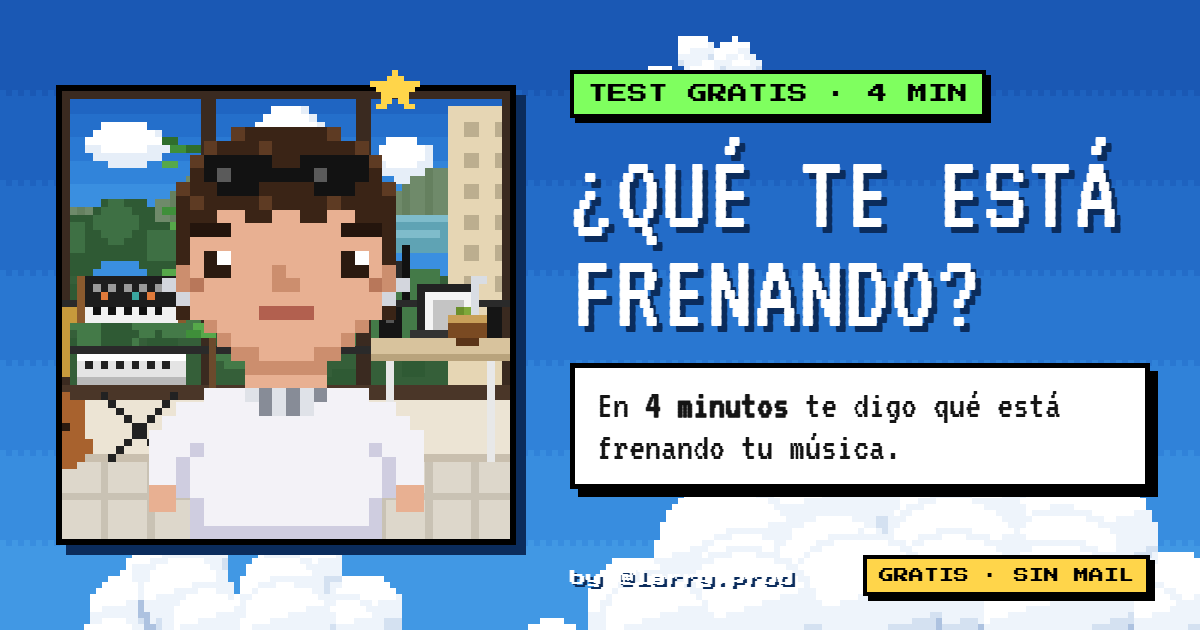
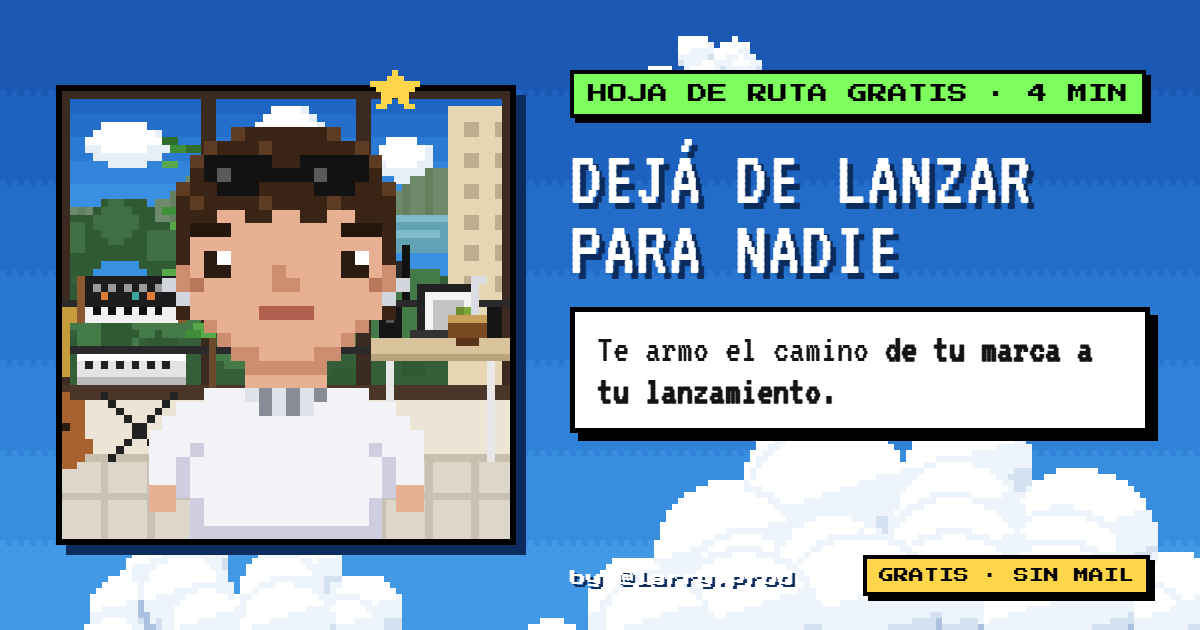
Ruta al Lanzamiento: promesa nueva y hoja de ruta como resultado

Changed region(s): [[0.4625, 0.0905, 0.9867, 0.8143]]

diff --git a/index.html b/index.html
@@ -3,20 +3,20 @@
 <head>
 <meta charset="UTF-8">
 <meta name="viewport" content="width=device-width, initial-scale=1, viewport-fit=cover">
-<title>¿Qué te está frenando? · Diagnóstico del artista · @larry.prod</title>
-<meta name="description" content="En 4 minutos te digo qué está frenando tu música. Gratis, sin mail ni teléfono. Con Larry (@larry.prod).">
+<title>Dejá de lanzar canciones que nadie escucha · Ruta al Lanzamiento · @larry.prod</title>
+<meta name="description" content="En 4 minutos te armo tu hoja de ruta: qué te está frenando y cuál es tu próximo paso, de tu marca a tu lanzamiento. Gratis, con Larry (@larry.prod).">
 <meta property="og:type" content="website">
-<meta property="og:url" content="https://larryprog.github.io/Diagnostico-del-Artista/">
-<meta property="og:title" content="¿Qué te está frenando? · Diagnóstico gratis del artista">
-<meta property="og:description" content="En 4 minutos te digo qué está frenando tu música. Gratis, sin mail ni teléfono. Con Larry (@larry.prod).">
-<meta property="og:image" content="https://larryprog.github.io/Diagnostico-del-Artista/og.png">
+<meta property="og:url" content="https://larryprog.github.io/Ruta-al-Lanzamiento/">
+<meta property="og:title" content="Dejá de lanzar canciones que nadie escucha · Ruta al Lanzamiento">
+<meta property="og:description" content="En 4 minutos te armo tu hoja de ruta: qué te está frenando y cuál es tu próximo paso, de tu marca a tu lanzamiento. Gratis, con Larry (@larry.prod).">
+<meta property="og:image" content="https://larryprog.github.io/Ruta-al-Lanzamiento/og.png">
 <meta property="og:image:width" content="1200">
 <meta property="og:image:height" content="630">
 <meta property="og:locale" content="es_ES">
 <meta name="twitter:card" content="summary_large_image">
-<meta name="twitter:title" content="¿Qué te está frenando? · Diagnóstico gratis del artista">
-<meta name="twitter:description" content="En 4 minutos te digo qué está frenando tu música. Gratis, sin mail ni teléfono. Con Larry (@larry.prod).">
-<meta name="twitter:image" content="https://larryprog.github.io/Diagnostico-del-Artista/og.png">
+<meta name="twitter:title" content="Dejá de lanzar canciones que nadie escucha · Ruta al Lanzamiento">
+<meta name="twitter:description" content="En 4 minutos te armo tu hoja de ruta: qué te está frenando y cuál es tu próximo paso, de tu marca a tu lanzamiento. Gratis, con Larry (@larry.prod).">
+<meta name="twitter:image" content="https://larryprog.github.io/Ruta-al-Lanzamiento/og.png">
 <meta name="theme-color" content="#1a58b4">
 <link rel="preconnect" href="https://fonts.googleapis.com">
 <link href="https://fonts.googleapis.com/css2?family=Syne:wght@600;700;800&family=Barlow:wght@400;500;600;700&family=Barlow+Condensed:wght@600;700;800&family=Caveat:wght@600&family=Special+Elite&family=DM+Mono:wght@400;500&family=Press+Start+2P&family=VT323&family=Playfair+Display:wght@700&family=Permanent+Marker&family=Baloo+2:wght@700&display=swap" rel="stylesheet">
@@ -455,6 +455,20 @@
     #printArea .qa div:last-child{font-size:14px;white-space:pre-wrap}
   }
 
+  .intro h1{font-size:clamp(17px,2.6vw,26px);max-width:640px;margin:0 auto}
+  /* ── la ruta ── */
+  .ruta{position:relative;display:grid;gap:10px;padding-left:4px}
+  .ruta::before{content:'';position:absolute;left:25px;top:20px;bottom:20px;border-left:4px dashed #151515}
+  .tramo{position:relative;display:flex;align-items:center;gap:12px}
+  .tramo .dot{flex:none;width:46px;height:46px;border:3px solid #000;box-shadow:3px 3px 0 #000;display:flex;align-items:center;justify-content:center;font-size:20px;z-index:1}
+  .tramo .tt{flex:1;min-width:0;background:#fff;border:2px solid var(--line2);padding:8px 12px;display:flex;flex-wrap:wrap;align-items:center;gap:4px 10px}
+  .tramo .tt b{font-size:15.5px;flex:1;min-width:140px}
+  .tramo .tag{font-family:'Press Start 2P',monospace;font-size:8px}
+  .tramo.here .tt{border:3px solid #151515;background:#fffbe9}
+  .tramo .aqui{flex-basis:100%;font-family:'Press Start 2P',monospace;font-size:9px;color:#c0263f}
+  .tramo.meta .dot{background:#151515}
+  .tramo.meta .tt{background:#151515;color:#fff;border-color:#151515}
+  .tramo.meta .tag{color:#7fff5f}
   /* ── diagnóstico ── */
   .ficha h3{font-family:'Press Start 2P',monospace;font-weight:400;font-size:16px;margin:10px 0 12px;line-height:1.4}
   .ficha .ps{color:var(--muted)}
@@ -502,7 +516,7 @@
     <header class="chead">
       <button id="menuBtn" aria-label="Ver recorrido">☰</button>
       <div class="mav larry live" data-frame="base" id="mav"></div>
-      <div class="ttl"><b>DIAGNOSTICO DEL ARTISTA</b><small id="sub">en línea</small></div>
+      <div class="ttl"><b>RUTA AL LANZAMIENTO</b><small id="sub">en línea</small></div>
       <a class="hdl hd" href="https://www.instagram.com/larry.prod" target="_blank" rel="noopener">@LARRY.PROD</a>
     </header>
     <div class="pbar"><i id="pbar"></i></div>
@@ -707,7 +721,8 @@ function studioLayers(){
   return { back: svg, front: '' };
 }
 
-/* DIAGNÓSTICO DEL ARTISTA — lead magnet gratis (versión corta del Manual de Marca)
+/* TU RUTA AL LANZAMIENTO — lead magnet gratis (versión corta del Manual de Marca)
+   Promesa: encaminar tu carrera desde tu marca hasta tu lanzamiento, en 4 minutos.
    Regla del guardián: acá solo van las preguntas, el semáforo y las frases de "fuga".
    Nada del método pago (frameworks, plantillas, ejemplos armados).
    **así** = negrita (lo más importante) · __así__ = subrayado fino (lo secundario) · ! al principio = frase clave */
@@ -736,7 +751,7 @@ const STEPS = [
 },
 {
   id:'p3', t:'Tu lanzamiento', min:1,
-  guide:{anim:'jump', prop:'mic', lines:['Última parada: **tu lanzamiento.**','Tres preguntas y __te muestro el resultado.__']},
+  guide:{anim:'jump', prop:'mic', lines:['Última parada: **tu lanzamiento.**','Unas preguntas más y __te muestro tu ruta completa.__']},
   fields:[
     {id:'ultimo', kind:'choice', label:'Tu último lanzamiento, ¿cuándo empezaste a moverlo?', options:['Semanas antes','El día que salió','Después','Nunca lancé nada']},
     {id:'fecha', kind:'choice', label:'¿Cuándo querés sacar lo próximo?', options:['Este mes','En 1 a 3 meses','Sin fecha todavía']},
@@ -747,18 +762,18 @@ const STEPS = [
 ];
 
 const GUIDE_COVER = { anim:'rise', prop:'note', lines:[
-  'Ey, soy **Larry** 👋 Productor musical.',
-  '!En 4 minutos te digo qué te está frenando… y spoiler: no siempre es la música.',
-  'Son **3 paradas cortas:** __tu música, cómo te ven y tu lanzamiento.__ Casi todo se contesta con un toque.',
-  'Al final te muestro **tu diagnóstico.** __No te pido mail ni teléfono.__'] };
+  'Ey, soy **Larry** 👋 Productor. Trabajo con artistas __desde su marca hasta el día que sale su tema.__',
+  '!Si tu último tema lo escucharon tus amigos y nadie más, esto es para vos.',
+  'En **4 minutos** te armo **tu hoja de ruta:** __dónde estás hoy, qué te está frenando y cuál es tu próximo paso.__',
+  'Son **3 paradas cortas** y casi todo se contesta con un toque. __Sin mail ni teléfono.__'] };
 const GUIDE_FINAL = { anim:'jump', prop:'star', lines:[] };
 
 /* ── Diagnóstico: 4 áreas · 0 = bien · 1 = a mejorar · 2 = fuga ── */
 const AREAS = [
-  {k:'sonido', t:'Tu sonido', me:'mi sonido', big:'TU SONIDO', fix:'Que tu tema suene a la altura de Spotify'},
-  {k:'identidad', t:'A quién le cantás', me:'saber a quién le canto', big:'A QUIÉN LE CANTÁS', fix:'Saber exactamente a quién le cantás'},
-  {k:'perfil', t:'Tu perfil', me:'mi perfil', big:'TU PERFIL', fix:'Un perfil que haga quedarse al que llega'},
-  {k:'lanzamiento', t:'Tu lanzamiento', me:'mi lanzamiento', big:'TU LANZAMIENTO', fix:'Un plan de semanas antes de sacar el tema'}
+  {k:'sonido', t:'Tu sonido', me:'mi sonido', big:'TU SONIDO', ico:'🎧', fix:'Que tu tema suene a la altura de Spotify'},
+  {k:'identidad', t:'A quién le cantás', me:'saber a quién le canto', big:'A QUIÉN LE CANTÁS', ico:'❤', fix:'Saber exactamente a quién le cantás'},
+  {k:'perfil', t:'Tu perfil', me:'mi perfil', big:'TU PERFIL', ico:'📱', fix:'Un perfil que haga quedarse al que llega'},
+  {k:'lanzamiento', t:'Tu lanzamiento', me:'mi lanzamiento', big:'TU LANZAMIENTO', ico:'🚀', fix:'Un plan de semanas antes de sacar el tema'}
 ];
 const DEMO = ['Es una idea o una letra','Demo en el celu','Demo con beat','Grabada, sin mezclar'];
 function scoreOf(k){
@@ -830,22 +845,23 @@ const AFTER = {
   nombre: [{k:'say', fn:()=>'¡Un gusto, **'+nombre()+'**! 🤝 Arrancamos.'}],
   estado: [{k:'say', fn:()=>'Anotado: tu próxima canción está __'+(ESTADO_TXT[S.estado]||'en camino')+'.__'}],
   ciudad: [{k:'say', t:'Listo, ya tengo **tu ficha de artista** 👇'},{k:'card', card:'ficha'}],
-  perfil: [{k:'say', t:'Ya tengo **2 de 4 áreas.** __Mirá cómo viene tu radar:__'},{k:'card', card:'radar2'}],
-  frena: [{k:'say', t:'Ya van **3 de 4.** __La última se revela al final.__'},{k:'card', card:'radar3'},{k:'say', t:'!Falta una y está tu resultado.'}]
+  perfil: [{k:'say', t:'Ya tengo **2 de 4 tramos** de tu ruta. __Mirá cómo viene:__'},{k:'card', card:'radar2'}],
+  frena: [{k:'say', t:'Ya van **3 de 4 tramos.** __El último se revela al final.__'},{k:'card', card:'radar3'},{k:'say', t:'!Falta una y está tu hoja de ruta.'}]
 };
 function buildScript(){
   const B = [];
   GUIDE_COVER.lines.forEach(t=>B.push({k:'say', t}));
-  B.push({k:'go', label:'Arrancar (4 min) →'});
+  B.push({k:'go', label:'Quiero mi ruta (4 min) →'});
   STEPS.forEach((st, si)=>{
     B.push({k:'chapter', st, si});
     st.guide.lines.forEach(t=>B.push({k:'say', t}));
     st.fields.forEach(f=>{ B.push({k:'ask', f}); (AFTER[f.id]||[]).forEach(c=>B.push(c)); });
   });
   B.push({k:'chapter', final:true});
-  B.push({k:'say', fn:()=>'!'+nombre()+', esto es lo que te está frenando.'});
+  B.push({k:'say', fn:()=>'!'+nombre()+', esta es tu hoja de ruta.'});
   B.push({k:'card', card:'result'});
-  B.push({k:'say', t:'Esto **tiene arreglo,** pero depende de tu caso. __Mandame tu diagnóstico y te digo por dónde empezaría yo.__'});
+  B.push({k:'say', t:'Este es **el mismo camino que hago con mis artistas:** __sonido, a quién le cantás, perfil y lanzamiento. En ese orden.__'});
+  B.push({k:'say', t:'Si querés que tu próximo tema **no salga a ciegas,** mandame tu ruta y __te digo cómo arrancaríamos en tu caso.__'});
   B.push({k:'card', card:'cta'});
   return B;
 }
@@ -869,15 +885,21 @@ function fichaHTML(){
     + '<div class="fg"><div><b>Música</b>'+esc(S.genero||'—')+'</div><div><b>Próxima canción</b>'+esc(S.estado||'—')+'</div>'
     + '<div><b>Voces</b>'+esc(S.voces||'—')+'</div><div><b>Desde</b>'+esc(S.ciudad||'—')+'</div></div></div>';
 }
+function rutaHTML(){
+  const C = cuello();
+  return '<div class="ruta">' + AREAS.map((A,i)=>{ const s = scoreOf(A.k), here = A.k===C.k;
+    return '<div class="tramo'+(here?' here':'')+'"><span class="dot" style="background:'+COL[s]+'">'+A.ico+'</span><div class="tt"><b>'+(i+1)+' · '+esc(A.t)+'</b><span class="tag" style="color:'+(s===1?'#8a6a00':s===2?'#c0263f':'#1f7a3f')+'">'+TAG[s]+'</span>'+(here?'<span class="aqui">📍 ESTÁS ACÁ</span>':'')+'</div></div>'; }).join('')
+    + '<div class="tramo meta"><span class="dot">⭐</span><div class="tt"><b>Tu lanzamiento con oyentes de verdad</b><span class="tag">LA META</span></div></div></div>';
+}
 function resultHTML(){
   const C = cuello(), sc = scoreOf(C.k);
   const fugas = AREAS.filter(A=>A.k!==C.k && scoreOf(A.k)>0).sort((a,b)=>scoreOf(b.k)-scoreOf(a.k)).slice(0,2);
   const arma = [C, ...AREAS.filter(A=>A.k!==C.k && scoreOf(A.k)>0)].slice(0,3);
   return '<div class="res">'
-    + '<div class="cue" style="--c:'+COL[Math.max(1,sc)]+'"><span class="ps">TU CUELLO DE BOTELLA</span><h3>'+C.big+'</h3><p>'+fmt(lineOf(C.k))+'</p></div>'
-    + '<div class="mono vis-title" style="margin-top:16px">Tu radar completo</div>'+radarHTML(4)
-    + (fugas.length ? '<div class="mono vis-title" style="margin-top:16px">Otras fugas</div>'+fugas.map(A=>'<p class="fuga"><span style="background:'+COL[scoreOf(A.k)]+'"></span>'+fmt(lineOf(A.k))+'</p>').join('') : '')
-    + '<div class="mono vis-title" style="margin-top:16px">Lo que armaríamos con vos</div>'
+    + '<div class="mono vis-title">De tu marca a tu lanzamiento</div>'+rutaHTML()
+    + '<div class="cue" style="--c:'+COL[Math.max(1,sc)]+';margin-top:16px"><span class="ps">TU PRÓXIMO PASO</span><h3>'+C.big+'</h3><p>'+fmt(lineOf(C.k))+'</p></div>'
+    + (fugas.length ? '<div class="mono vis-title" style="margin-top:16px">Lo que también frena tu ruta</div>'+fugas.map(A=>'<p class="fuga"><span style="background:'+COL[scoreOf(A.k)]+'"></span>'+fmt(lineOf(A.k))+'</p>').join('') : '')
+    + '<div class="mono vis-title" style="margin-top:16px">Lo que armamos juntos en cada tramo</div>'
     + '<div class="lock">'+arma.map(A=>'<div>🔒 <b>'+esc(A.fix)+'</b><small>Lo vemos según tu caso</small></div>').join('')+'</div>'
     + '</div>';
 }
@@ -886,18 +908,18 @@ function waText(){
   const fecha = {'Este mes':'este mes','En 1 a 3 meses':'en 1 a 3 meses','Sin fecha todavía':'cuando tenga fecha'}[S.fecha] || 'pronto';
   const plan = {'Hacerlo yo solo, sin invertir':'lo pensaba hacer solo','Invertir algo si vale la pena':'invertiría si vale la pena','Ya tengo un presupuesto pensado':'tengo un presupuesto pensado'}[S.plan];
   const datos = [S.genero, 'canción '+(ESTADO_TXT[S.estado]||'—'), 'voces: '+low(S.voces||'—'), S.ciudad, 'suena '+low(S.suena||'—')+' al lado de mis referencias', 'último lanzamiento: '+low(S.ultimo||'—'), plan, (S.ig ? 'IG '+S.ig.trim() : '')].filter(Boolean).join(' · ');
-  return 'Ey Larry! Soy '+nombre()+' 🎤 Hice el diagnóstico: mi cuello de botella es '+C.me+' y quiero sacar lo próximo '+fecha+'. ¿Cómo lo arreglarías? Te paso la demo 👇\n\n('+datos+')';
+  return 'Ey Larry! Soy '+nombre()+' 🎤 Armé mi hoja de ruta: mi próximo paso es '+C.me+' y quiero sacar lo próximo '+fecha+'. ¿Me ayudás a encaminarlo? Te paso la demo 👇\n\n('+datos+')';
 }
 function waURL(){ return 'https://wa.me/'+WHATSAPP+'?text='+encodeURIComponent(waText()); }
 function ctaHTML(){
-  return '<div class="cta"><a class="btnp big" href="'+waURL()+'" target="_blank" rel="noopener" data-wa="1">📲 Mandarle mi diagnóstico a Larry</a>'
+  return '<div class="cta"><a class="btnp big" href="'+waURL()+'" target="_blank" rel="noopener" data-wa="1">📲 Quiero lanzar con Larry</a>'
     + '<p class="trust">✓ Te responde <b>Larry, él mismo</b> · ✓ sin compromiso<br>✓ si no es para vos, te lo dice · los proyectos arrancan en <b>300 €</b></p></div>';
 }
 function cardHTML(b){
   const c = b.card;
   if(c==='ficha') return '<div class="mcard">'+fichaHTML()+'</div>';
-  if(c==='radar2') return '<div class="mcard"><div class="mono vis-title">Tu radar</div>'+radarHTML(2)+'</div>';
-  if(c==='radar3') return '<div class="mcard"><div class="mono vis-title">Tu radar</div>'+radarHTML(3)+'</div>';
+  if(c==='radar2') return '<div class="mcard"><div class="mono vis-title">Tu ruta · 2 de 4 tramos</div>'+radarHTML(2)+'</div>';
+  if(c==='radar3') return '<div class="mcard"><div class="mono vis-title">Tu ruta · 3 de 4 tramos</div>'+radarHTML(3)+'</div>';
   if(c==='result') return '<div class="mcard" data-live="result">'+resultHTML()+'</div>';
   if(c==='cta') return '<div class="mcard" data-live="cta">'+ctaHTML()+'</div>';
   return '';
@@ -947,10 +969,10 @@ async function typing(ms){
 function durOf(b){ const n = b.t ? b.t.replace(/[*_!]/g,'').length : 70; return Math.max(400, Math.min(1100, n*14)); }
 function sceneHTML(b, live){
   const g = gOf(b), id = b.final ? 'final' : b.st.id;
-  const kick = b.final ? '★ RESULTADO' : 'PARADA '+(b.si+1)+' DE '+STEPS.length;
+  const kick = b.final ? '★ LLEGASTE' : 'PARADA '+(b.si+1)+' DE '+STEPS.length;
   const ST = studioLayers();
   return '<div class="scene" id="sc-'+id+'"><div class="sbox">'+ST.back+'<div class="larry'+(live?' in-'+(g.anim||'rise'):'')+'" data-frame="base"><div class="bob">'+LARRY_SVG.base+'</div></div>'+ST.front+propHTML(g, live?' in':'')+'</div>'
-    + '<div class="scene-t'+(live?' in':'')+'"><span class="ps">'+kick+'</span><h3>'+esc(b.final?'Tu diagnóstico':b.st.t)+'</h3>'+(b.st?'<span class="ps dim">⏱ '+b.st.min+' MIN</span>':'')+'</div></div>';
+    + '<div class="scene-t'+(live?' in':'')+'"><span class="ps">'+kick+'</span><h3>'+esc(b.final?'Tu hoja de ruta':b.st.t)+'</h3>'+(b.st?'<span class="ps dim">⏱ '+b.st.min+' MIN</span>':'')+'</div></div>';
 }
 function larryPart(b, live){
   if(b.k==='say'){ const t = b.fn ? b.fn() : b.t; const hito = t.charAt(0)==='!';
@@ -988,7 +1010,7 @@ cin.addEventListener('keydown', e=>{ if(e.key==='Enter' && !e.shiftKey){ e.preve
 $('#csend').onclick = ()=>{ SEND && SEND(); };
 function openInput(i){
   closeInput();
-  if(i<0){ const a = document.createElement('a'); a.className = 'qb pri'; a.href = waURL(); a.target = '_blank'; a.rel = 'noopener'; a.textContent = '📲 Mandarle mi diagnóstico a Larry'; quick.appendChild(a); return; }
+  if(i<0){ const a = document.createElement('a'); a.className = 'qb pri'; a.href = waURL(); a.target = '_blank'; a.rel = 'noopener'; a.textContent = '📲 Quiero lanzar con Larry'; quick.appendChild(a); return; }
   const b = SCRIPT[i];
   if(b.k==='go'){ qb(b.label, 'pri', ()=>finish(i, ()=>row('u','<div class="ubub">¡Dale!</div>'))); return; }
   const f = b.f;
@@ -1005,14 +1027,14 @@ function curChapter(){ let c = -1; CHAPTERS.forEach((ci,k)=>{ if(ci < pos) c = k
 function refreshSub(){
   const s = $('#sub'); if(document.body.classList.contains('typing')){ s.textContent = '✎ Larry está escribiendo…'; return; }
   const c = curChapter();
-  s.textContent = c<0 ? 'en línea · diagnóstico gratis' : (c<STEPS.length ? 'Parada '+(c+1)+' de '+STEPS.length+' · '+STEPS[c].t : '★ Tu diagnóstico');
+  s.textContent = c<0 ? 'en línea · tu ruta gratis' : (c<STEPS.length ? 'Parada '+(c+1)+' de '+STEPS.length+' · '+STEPS[c].t : '★ Tu hoja de ruta');
 }
 function refreshSide(){
   const c = curChapter();
   $('#route').innerHTML = '<div class="ps lbl">TU RECORRIDO</div>' + STEPS.map((s,k)=>{
     const reached = CHAPTERS[k] < pos, done = reached && c>k;
     return '<button type="button" class="'+(c===k?'cur':'')+(reached?'':' lock')+'" '+(reached?'data-jump="sc-'+s.id+'"':'disabled')+'><span class="n">0'+(k+1)+'</span><span>'+esc(s.t)+'</span><span class="s">'+(done?'✓':(reached?'':s.min+'′'))+'</span></button>';
-  }).join('') + '<button type="button" class="'+(c===STEPS.length?'cur':'')+(CHAPTERS[STEPS.length]<pos?'':' lock')+'" '+(CHAPTERS[STEPS.length]<pos?'data-jump="sc-final"':'disabled')+'><span class="n">★</span><span>Tu diagnóstico</span></button>';
+  }).join('') + '<button type="button" class="'+(c===STEPS.length?'cur':'')+(CHAPTERS[STEPS.length]<pos?'':' lock')+'" '+(CHAPTERS[STEPS.length]<pos?'data-jump="sc-final"':'disabled')+'><span class="n">★</span><span>Tu hoja de ruta</span></button>';
   $('#pbar').style.width = (Math.max(0,c+1)/(STEPS.length+1)*100)+'%';
   refreshSub();
 }
@@ -1022,11 +1044,11 @@ document.addEventListener('click', e=>{
   const el = document.getElementById(b.dataset.jump); if(el) el.scrollIntoView({behavior:'smooth', block:'start'}); document.body.classList.remove('menu');
 });
 $('#menuBtn').onclick = ()=>document.body.classList.toggle('menu');
-$('#resetBtn').onclick = ()=>{ if(!confirm('¿Empezar el diagnóstico de cero?')) return; try { localStorage.removeItem(KEY); localStorage.removeItem(KPOS); } catch(e){} location.reload(); };
+$('#resetBtn').onclick = ()=>{ if(!confirm('¿Armar tu ruta de cero?')) return; try { localStorage.removeItem(KEY); localStorage.removeItem(KPOS); } catch(e){} location.reload(); };
 
 /* ── arranque ── */
 function rebuild(){
-  tin.innerHTML = '<div class="intro"><img class="logo" src="'+(LOGO_A||LOGO)+'" alt="Larry Prod"'+(LOGO_A?'':' style="opacity:0"')+'><h1>¿Qué te está frenando?</h1><div class="byline">Diagnóstico gratis del artista · by <a href="https://www.instagram.com/larry.prod" target="_blank" rel="noopener">@larry.prod</a></div><div class="ps">4 MINUTOS · SIN MAIL NI TELÉFONO</div></div>'
+  tin.innerHTML = '<div class="intro"><img class="logo" src="'+(LOGO_A||LOGO)+'" alt="Larry Prod"'+(LOGO_A?'':' style="opacity:0"')+'><h1>Dejá de lanzar canciones que nadie escucha.</h1><div class="byline">Tu hoja de ruta gratis, de tu marca a tu lanzamiento · by <a href="https://www.instagram.com/larry.prod" target="_blank" rel="noopener">@larry.prod</a></div><div class="ps">4 MINUTOS · SIN MAIL NI TELEFONO</div></div>'
     + (()=>{ const ST = studioLayers(); return '<div class="scene" id="sc-cover"><div class="sbox">'+ST.back+'<div class="larry" data-frame="base"><div class="bob">'+LARRY_SVG.base+'</div></div>'+propHTML(GUIDE_COVER,'')+'</div><div class="scene-t"><span class="ps">TU GUIA</span><h3>Larry</h3><a class="ps dim iglink" href="https://www.instagram.com/larry.prod" target="_blank" rel="noopener">PRODUCTOR · @LARRY.PROD ↗</a></div></div>'; })();
   setSide(null, true);
   pos = Math.min(pos, SCRIPT.length);
